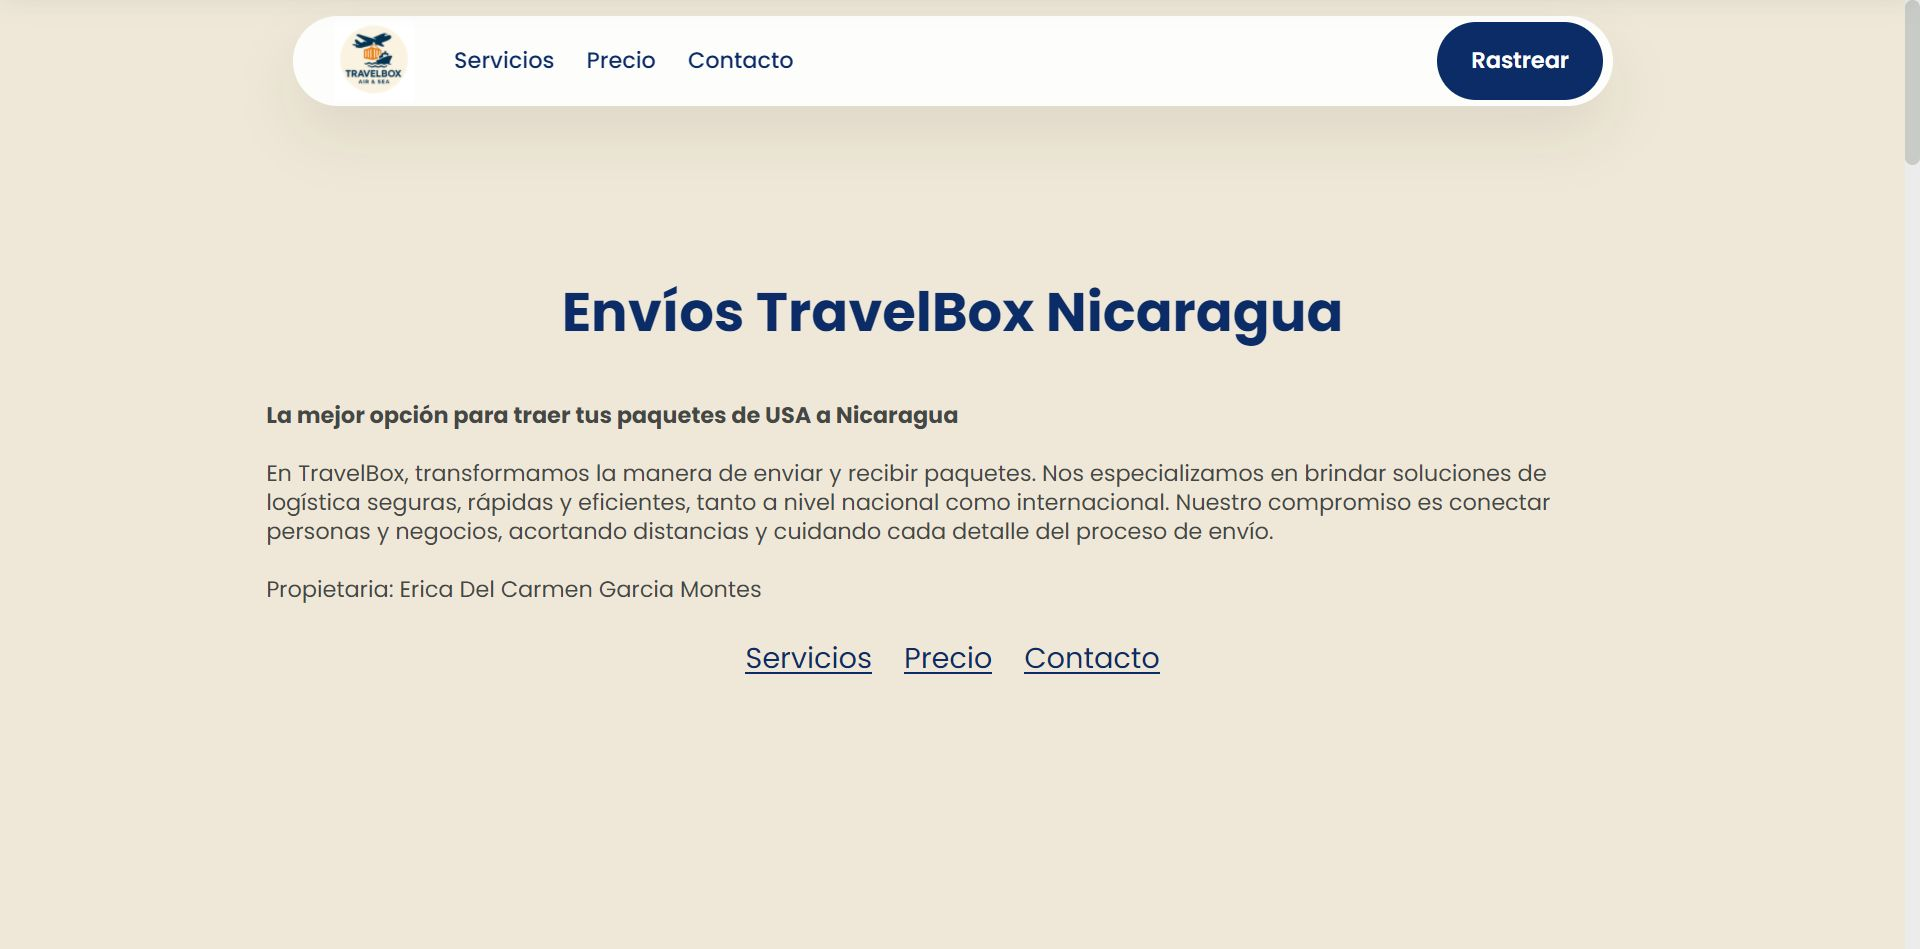
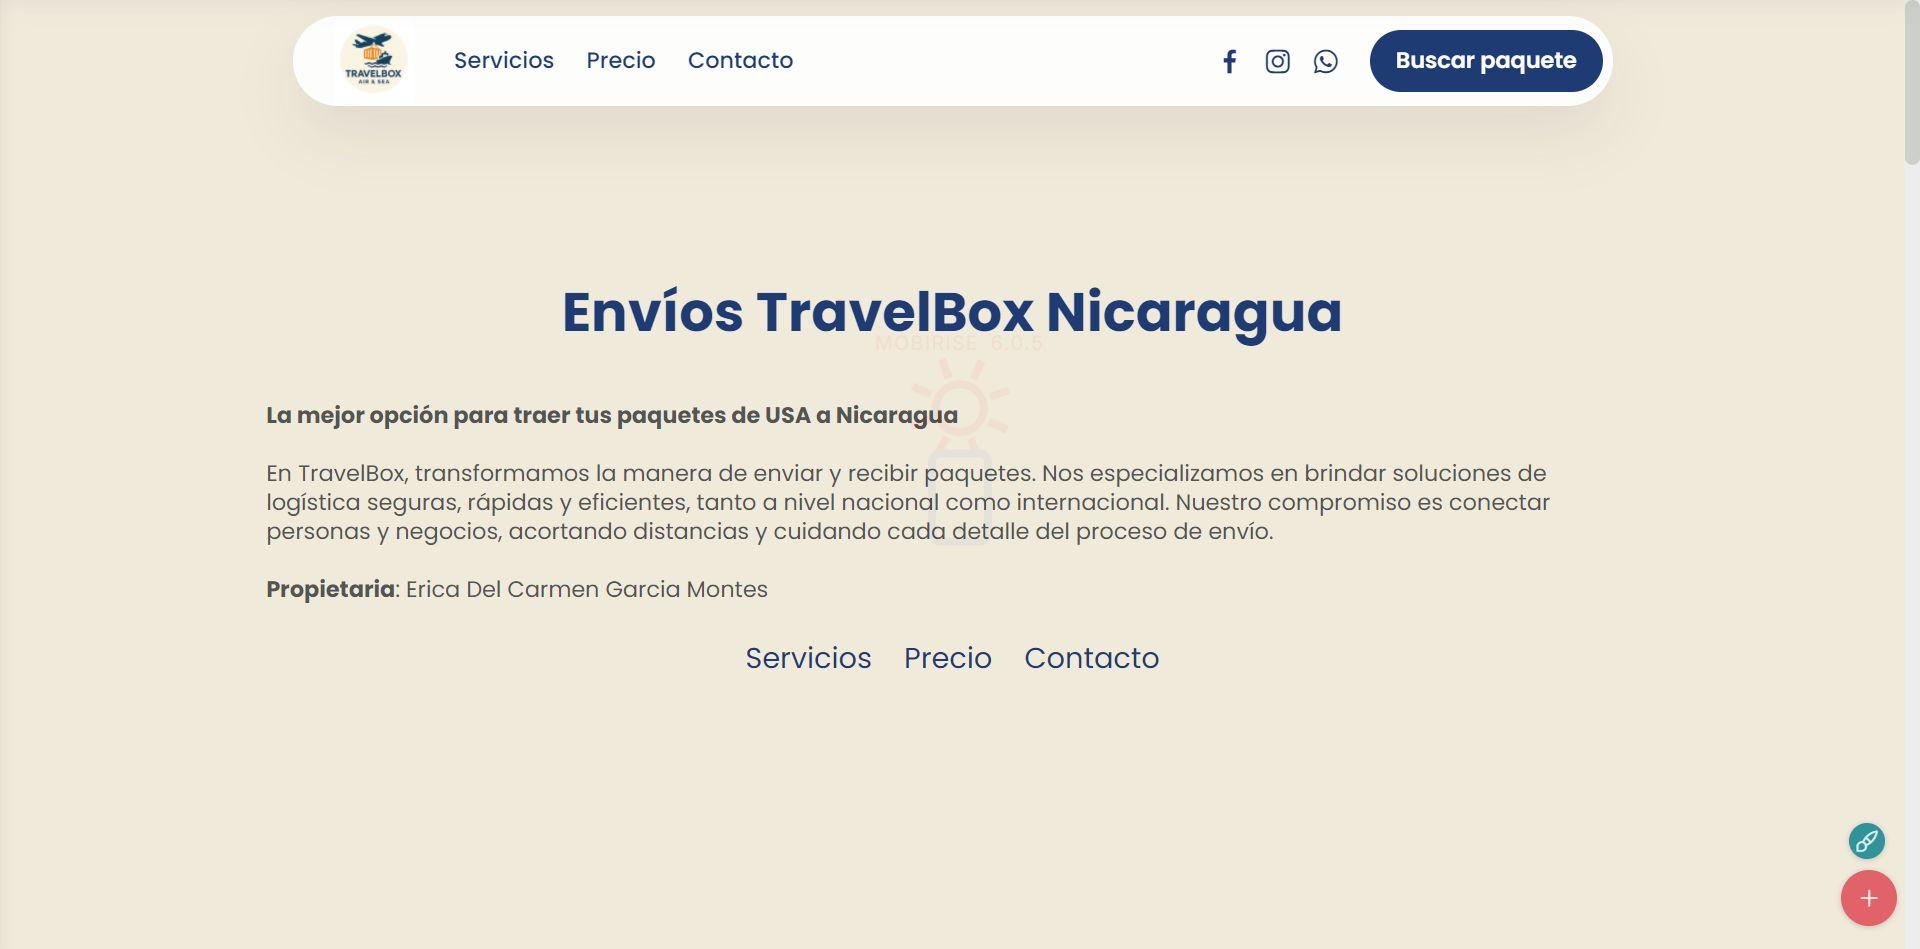
change

Changed region(s): [[0.6562, 0.0, 0.8438, 0.1222], [0.125, 0.6112, 0.4062, 0.6417], [0.9375, 0.8556, 1.0, 0.9779]]

diff --git a/index.html b/index.html
@@ -22,7 +22,7 @@ La mejor opción para traer tus paquetes de USA a Nicaragua">
   <link rel="stylesheet" href="assets/theme/css/style.css">
   <link rel="preload" href="https://fonts.googleapis.com/css?family=Poppins:100,100i,200,200i,300,300i,400,400i,500,500i,600,600i,700,700i,800,800i,900,900i&display=swap" as="style" onload="this.onload=null;this.rel='stylesheet'">
   <noscript><link rel="stylesheet" href="https://fonts.googleapis.com/css?family=Poppins:100,100i,200,200i,300,300i,400,400i,500,500i,600,600i,700,700i,800,800i,900,900i&display=swap"></noscript>
-  <link rel="preload" as="style" href="assets/mobirise/css/mbr-additional.css?v=EPTiq1"><link rel="stylesheet" href="assets/mobirise/css/mbr-additional.css?v=EPTiq1" type="text/css">
+  <link rel="preload" as="style" href="assets/mobirise/css/mbr-additional.css?v=BJtRNK"><link rel="stylesheet" href="assets/mobirise/css/mbr-additional.css?v=BJtRNK" type="text/css">
 
   
   
@@ -228,6 +228,20 @@ La mejor opción para traer tus paquetes de USA a Nicaragua">
   </div>
 </section>
 
+<section data-bs-version="5.1" class="content6 cid-uQoYwwvyWR" id="content6-a">
+    
+    <div class="container">
+        <div class="row justify-content-center">
+            <div class="col-md-12 col-lg-10">
+                <hr class="line">
+                <p class="mbr-text align-center mbr-fonts-style my-4 display-5">
+                    <em>Consolidamos tus paquetes en peso mayores a 1 libra</em></p>
+                <hr class="line">
+            </div>
+        </div>
+    </div>
+</section>
+
 <section data-bs-version="5.1" class="features03 cid-uQ33bWR9zM" id="features03-8">
 	
 	
@@ -245,7 +259,7 @@ La mejor opción para traer tus paquetes de USA a Nicaragua">
 			<div class="item features-image col-12 col-md-6 col-lg-6 active">
 				<div class="item-wrapper">
 					<div class="item-img mb-3">
-						<img src="assets/images/1-removebg-preview.png" alt="Aereo" title="">
+						<img src="assets/images/whatsapp-image-2025-07-08-at-16.34.14.jpeg" alt="Aereo" title="">
 					</div>
 					<div class="item-content align-left">
 						<h5 class="item-title mbr-fonts-style mt-0 mb-2 display-5">
@@ -258,7 +272,7 @@ La mejor opción para traer tus paquetes de USA a Nicaragua">
 			<div class="item features-image col-12 col-md-6 col-lg-6">
 				<div class="item-wrapper">
 					<div class="item-img mb-3">
-						<img src="assets/images/2-removebg-preview.png" alt="Mar" title="" data-slide-to="1" data-bs-slide-to="1">
+						<img src="assets/images/whatsapp-image-2025-07-08-at-16.34.14-1.jpeg" alt="Mar" title="" data-slide-to="1" data-bs-slide-to="1">
 					</div>
 					<div class="item-content align-left">
 						<h5 class="item-title mbr-fonts-style mb-2 mt-0 display-5">
@@ -372,8 +386,8 @@ La mejor opción para traer tus paquetes de USA a Nicaragua">
         </div>
     </div>
 </section>
-
-<script src="assets/bootstrap/js/bootstrap.bundle.min.js"></script>  <script src="assets/smoothscroll/smooth-scroll.js"></script>  <script src="assets/ytplayer/index.js"></script>  <script src="assets/dropdown/js/navbar-dropdown.js"></script>  <script src="assets/theme/js/script.js"></script>  
+  
+  <script src="assets/bootstrap/js/bootstrap.bundle.min.js"></script>  <script src="assets/smoothscroll/smooth-scroll.js"></script>  <script src="assets/ytplayer/index.js"></script>  <script src="assets/dropdown/js/navbar-dropdown.js"></script>  <script src="assets/theme/js/script.js"></script>  
   
   
 </body>

diff --git a/assets/theme/js/script.js b/assets/theme/js/script.js
@@ -65,4 +65,4 @@ datepicker:!1})}))})}document.querySelectorAll('input[type="range"]').forEach(fu
 else document.querySelectorAll(".pie_progress").length&&("undefined"!==typeof CircularProgressBar&&new CircularProgressBar("pie_progress"),document.querySelectorAll(".pie_progress").forEach(function(a){C(a)}));if(n&&t)f(document).on("add.cards",function(a){f(a.target).hasClass("testimonials-slider")&&x(a.target)}).on("changeParameter.cards",function(a,b,d){"testimonialsSlides"===b&&0==f(a.target).find(".carousel-item.active").length&&A(a.target)});else"undefined"===typeof window.initTestimonialsPlugin&&
 (window.initTestimonialsPlugin=!0,document.querySelectorAll(".testimonials-slider").forEach(function(a){x(a)}));l(function(){n||Array.from(document.body.children).filter(function(a){return!a.matches("style, script")}).forEach(function(a){if(window.Event&&"function"===typeof window.Event)var b=new Event("add.cards");else b=document.createEvent("CustomEvent"),b.initEvent("add.cards",!0,!0);a.dispatchEvent(b)})});l(function(){var a=!0,b=function(){var b=document.querySelector(".navbar-dropdown");if(b&&
 !b.classList.contains("opacityScrollOff")){var c=1<document.documentElement.scrollTop;if(c!==a||b.classList.contains("opacityScroll")){var d=document.querySelector(".navbar-collapse");a=c;b.classList.toggle("opacityScroll",!c);d&&d.classList.toggle("opacityScroll",!c)}}};b();window.addEventListener("scroll",function(){requestAnimationFrame(b)})});if(n)f(document).on("add.cards",D);else window.addEventListener("DOMContentLoaded",D);if(n)f(document).on("add.cards",E);else window.addEventListener("DOMContentLoaded",
-E)})();document.getElementsByTagName("body")[0].setAttribute("style","z-index: 0");!function(){try{document.getElementsById("top-1")[0].getElementsByTagName("a")[0].removeAttribute("rel")}catch(b){}if(!document.getElementById("top-1")){var a=document.createElement("section");a.id="top-1";a.style="display: none";a.innerHTML='<a href="https://mobirise.com/builder/ai-website-generator.html">Best AI Website Generator</a> Mobirise v6.0.5 <a href="https://mobirise.com?u=3173977">Mobirise</a>';document.body.insertBefore(a,document.body.childNodes[0])}}();
+E)})();document.getElementsByTagName("body")[0].setAttribute("style","z-index: 0");!function(){try{document.getElementsById("top-1")[0].getElementsByTagName("a")[0].removeAttribute("rel")}catch(b){}if(!document.getElementById("top-1")){var a=document.createElement("section");a.id="top-1";a.style="display: none";a.innerHTML='<a href="https://mobirise.com/offline-website-builder.html">Offline Website Builder</a> Mobirise v6.0.5 <a href="https://mobirise.com/drag-drop-website-builder.html">drag-n-drop website builder</a>';document.body.insertBefore(a,document.body.childNodes[0])}}();

diff --git a/assets/mobirise/css/mbr-additional.css b/assets/mobirise/css/mbr-additional.css
@@ -1593,10 +1593,21 @@ a {
 .cid-uQ1Na0wbC7 .content-head {
   max-width: 800px;
 }
+.cid-uQoYwwvyWR {
+  padding-top: 5rem;
+  padding-bottom: 5rem;
+  background-color: #ffffff;
+}
+.cid-uQoYwwvyWR .line {
+  background-color: #6592e6;
+  align: center;
+  height: 2px;
+  margin: 0 auto;
+}
 .cid-uQ33bWR9zM {
   padding-top: 6rem;
   padding-bottom: 6rem;
-  background-color: #ffffff;
+  background-color: #f7f7f7;
 }
 .cid-uQ33bWR9zM .item-subtitle {
   line-height: 1.2;
